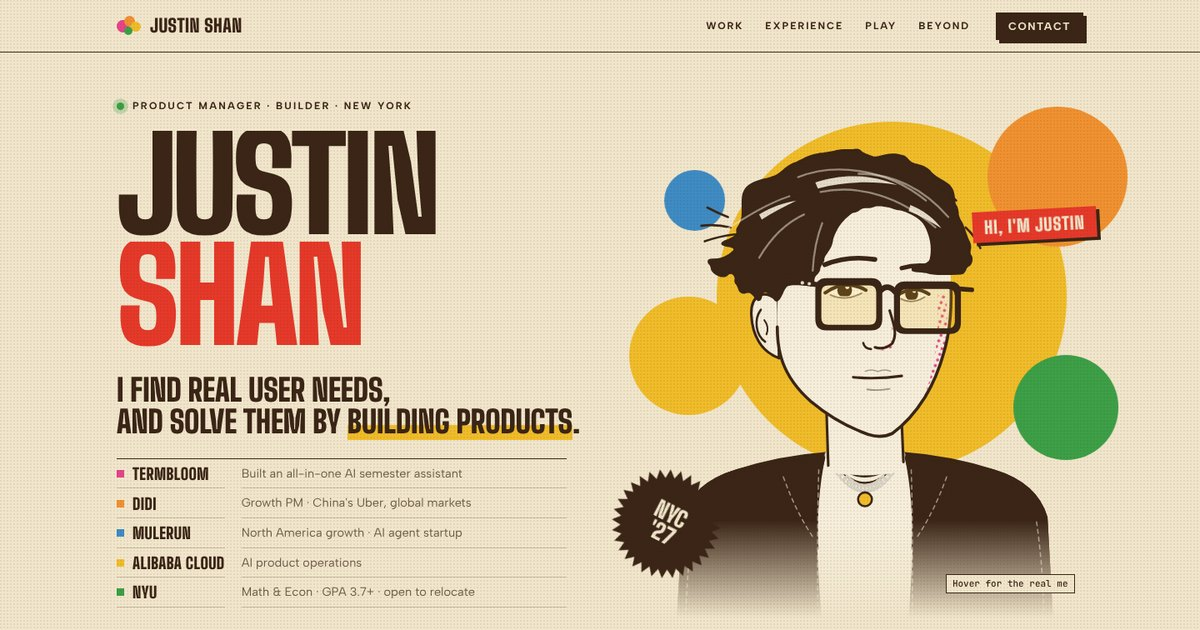
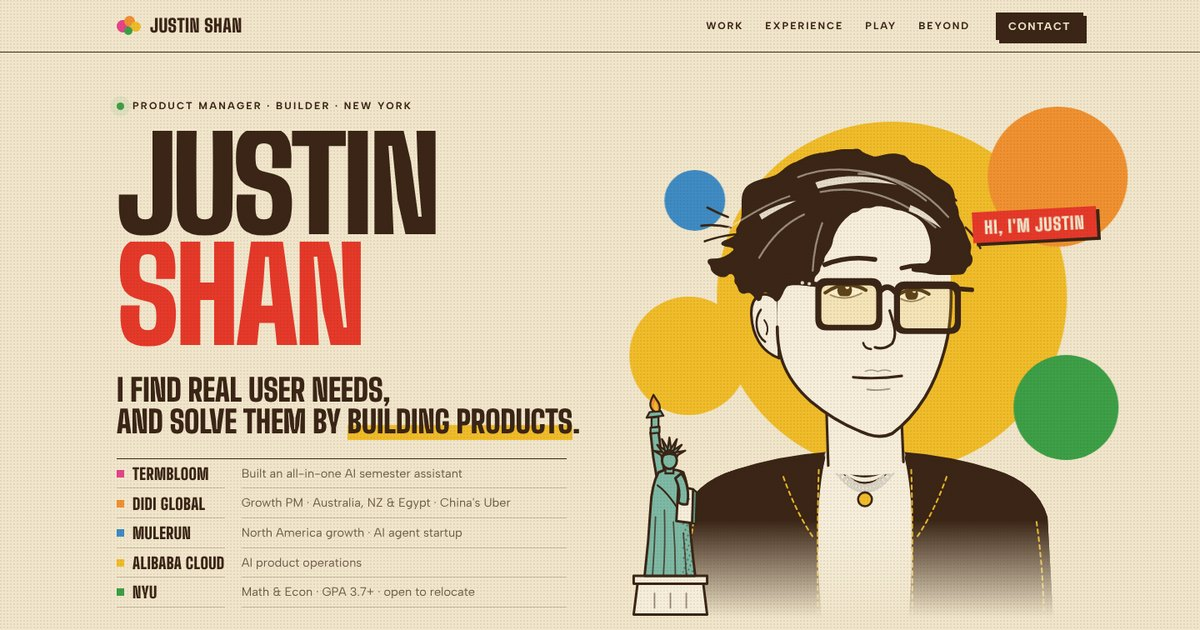
Hero: stitched portrait, Statue of Liberty, DiDi Global wording
Claude-Session: https://claude.ai/code/session_01UYAt6aHiqMnRHcr9ebGoZD

diff --git a/index.html b/index.html
@@ -150,20 +150,13 @@ em{font-style:normal;color:var(--red)}
 .portrait .seal{position:absolute;z-index:3;left:-8%;bottom:10%;width:25%;font-size:clamp(17px,1.9vw,27px);animation:spin 40s linear infinite}
 .portrait .hi{position:absolute;z-index:3;right:-3%;top:14%;font-size:clamp(15px,1.5vw,21px);box-shadow:4px 4px 0 var(--ink)}
 @keyframes spin{to{transform:rotate(360deg)}}
-/* hero: cartoon on top, the real photo underneath (hover or tap to peek) */
-.portrait.toon{cursor:pointer;-webkit-tap-highlight-color:transparent}
-.portrait.toon:focus-visible{outline:2.5px solid var(--red);outline-offset:6px}
+/* hero: cartoon portrait */
 .portrait .stack{position:relative;z-index:2;display:grid}
-.portrait .stack img{grid-area:1/1;left:0;transition:opacity .45s var(--ease-out),clip-path .7s var(--ease-out)}
-.portrait .stack img.photo{opacity:0;clip-path:circle(0% at 55% 32%)}
-.portrait.toon.peek .stack img.photo{opacity:1;clip-path:circle(80% at 55% 32%)}
-.portrait.toon.peek .stack img.cartoon{opacity:0}
-@media (hover:hover){.portrait.toon:hover .stack img.photo{opacity:1;clip-path:circle(80% at 55% 32%)}.portrait.toon:hover .stack img.cartoon{opacity:0}}
-.portrait .peek-hint{position:absolute;z-index:3;right:2%;bottom:7%;font:500 11px/1 var(--mono);background:var(--paper);border:1.5px solid var(--ink);padding:5px 7px;pointer-events:none;transition:opacity .3s}
-.portrait .peek-hint .t{display:none}
-@media (hover:none){.portrait .peek-hint .h{display:none}.portrait .peek-hint .t{display:inline}}
-.portrait.toon.peek .peek-hint,.portrait.toon:hover .peek-hint{opacity:0}
-@media (prefers-reduced-motion:reduce){.portrait .stack img{transition:none}}
+.portrait .stack img{grid-area:1/1;left:0}
+.portrait img.liberty{position:absolute;z-index:3;left:-7%;bottom:2%;width:25%;height:auto;-webkit-mask-image:none;mask-image:none;transform-origin:50% 100%;animation:rise-in .9s var(--ease-pop) .5s both}
+@keyframes rise-in{from{transform:translateY(14px) scale(.92)}to{transform:none}}
+@media (max-width:860px){.portrait img.liberty{left:-4%;width:22%}}
+@media (prefers-reduced-motion:reduce){.portrait img.liberty{animation:none}}
 @media (max-width:860px){
   .hero .wrap{grid-template-columns:1fr}
   .portrait{order:-1;width:min(78vw,360px);margin-top:28px}
@@ -606,21 +599,20 @@ footer .wrap{display:flex;flex-wrap:wrap;justify-content:space-between;gap:10px;
         <p class="statement"><span class="l">I find real user needs,</span><span class="l">and solve them by <mark>building products</mark>.</span></p>
         <dl class="roles">
           <div style="--c:var(--pink)"><dt>TermBloom</dt><dd>Built an all-in-one AI semester assistant</dd></div>
-          <div style="--c:var(--orange)"><dt>DiDi</dt><dd>Growth PM · China's Uber, global markets</dd></div>
-          <div style="--c:var(--blue)"><dt>MuleRun</dt><dd>North America growth · AI agent startup</dd></div>
+          <div style="--c:var(--orange)"><dt>DiDi Global</dt><dd>Growth PM&nbsp;· Australia, NZ &amp; Egypt&nbsp;· China's Uber</dd></div>
+          <div style="--c:var(--blue)"><dt>MuleRun</dt><dd>North America growth&nbsp;· AI agent startup</dd></div>
           <div style="--c:var(--yellow)"><dt>Alibaba Cloud</dt><dd>AI product operations</dd></div>
-          <div style="--c:var(--green)"><dt>NYU</dt><dd>Math &amp; Econ · GPA 3.7+ · open to relocate</dd></div>
+          <div style="--c:var(--green)"><dt>NYU</dt><dd>Math &amp; Econ&nbsp;· GPA&nbsp;3.7+&nbsp;· open to relocate</dd></div>
         </dl>
         <div class="ctas">
           <a class="btn" href="#work">See my work ↓</a>
           <a class="btn ghost" href="#contact">Get in touch →</a>
         </div>
       </div>
-      <figure class="portrait toon" style="--c1:var(--yellow)" tabindex="0" role="button" aria-pressed="false" aria-label="Cartoon portrait of Justin Shan. Press to see the photo.">
+      <figure class="portrait toon" style="--c1:var(--yellow)">
         <div class="bloom" aria-hidden="true"><i></i><i></i><i></i><i></i><i></i></div>
-        <div class="stack"><img class="cartoon" src="media/justin-toon.svg" alt="" width="900" height="1001" fetchpriority="high"><img class="photo" src="media/justin.webp" alt="" width="900" height="1001" loading="lazy"></div>
-        <div class="seal" aria-hidden="true">NYC<br>'27</div>
-        <span class="peek-hint" aria-hidden="true"><span class="h">Hover for the real me</span><span class="t">Tap for the real me</span></span>
+        <div class="stack"><img class="cartoon" src="media/justin-toon-v2.svg" alt="Cartoon portrait of Justin Shan" width="900" height="1001" fetchpriority="high"></div>
+        <img class="liberty" src="media/liberty.svg" alt="" aria-hidden="true" width="220" height="456">
         <span class="stamp hi" aria-hidden="true">Hi, I'm Justin</span>
       </figure>
     </div>
@@ -1139,13 +1131,6 @@ footer .wrap{display:flex;flex-wrap:wrap;justify-content:space-between;gap:10px;
     layout();
   })();
 
-  /* ---------- hero portrait: tap or press to swap cartoon <-> photo ---------- */
-  $$('.portrait.toon').forEach(p => {
-    const t = () => p.setAttribute('aria-pressed', p.classList.toggle('peek'));
-    p.addEventListener('click', t);
-    p.addEventListener('keydown', e => { if (e.key === 'Enter' || e.key === ' ') { e.preventDefault(); t(); } });
-  });
-
   /* ---------- experience: what each role added ---------- */
   (() => {
     const root = $('#ex'); if (!root) return;
@@ -1182,7 +1167,7 @@ footer .wrap{display:flex;flex-wrap:wrap;justify-content:space-between;gap:10px;
         stats: [['1,200+', 'Students reached', 'campus talks at NYU & Columbia'], ['63', 'Interviews', 'face to face'], ['500+', 'Sign-ups', 'from the community']],
         ship: ['What it led to', ['8 new AI agents', 'MuleRun 2.0 UI', '2 creator showcases']],
         adds: ['Ownership', 'User research', 'Going offline'] },
-      { co: 'DiDi', tag: "China's Uber · global markets", role: 'Growth Product Manager', when: 'Apr – Sep 2026', c: 'var(--orange)',
+      { co: 'DiDi Global', tag: "China's Uber · Australia, NZ & Egypt", role: 'Growth Product Manager', when: 'Apr – Sep 2026', c: 'var(--orange)',
         lesson: 'How a feature really ships',
         ctx: 'My first true PM role: the whole product process, at big-company scale.',
         tks: [
